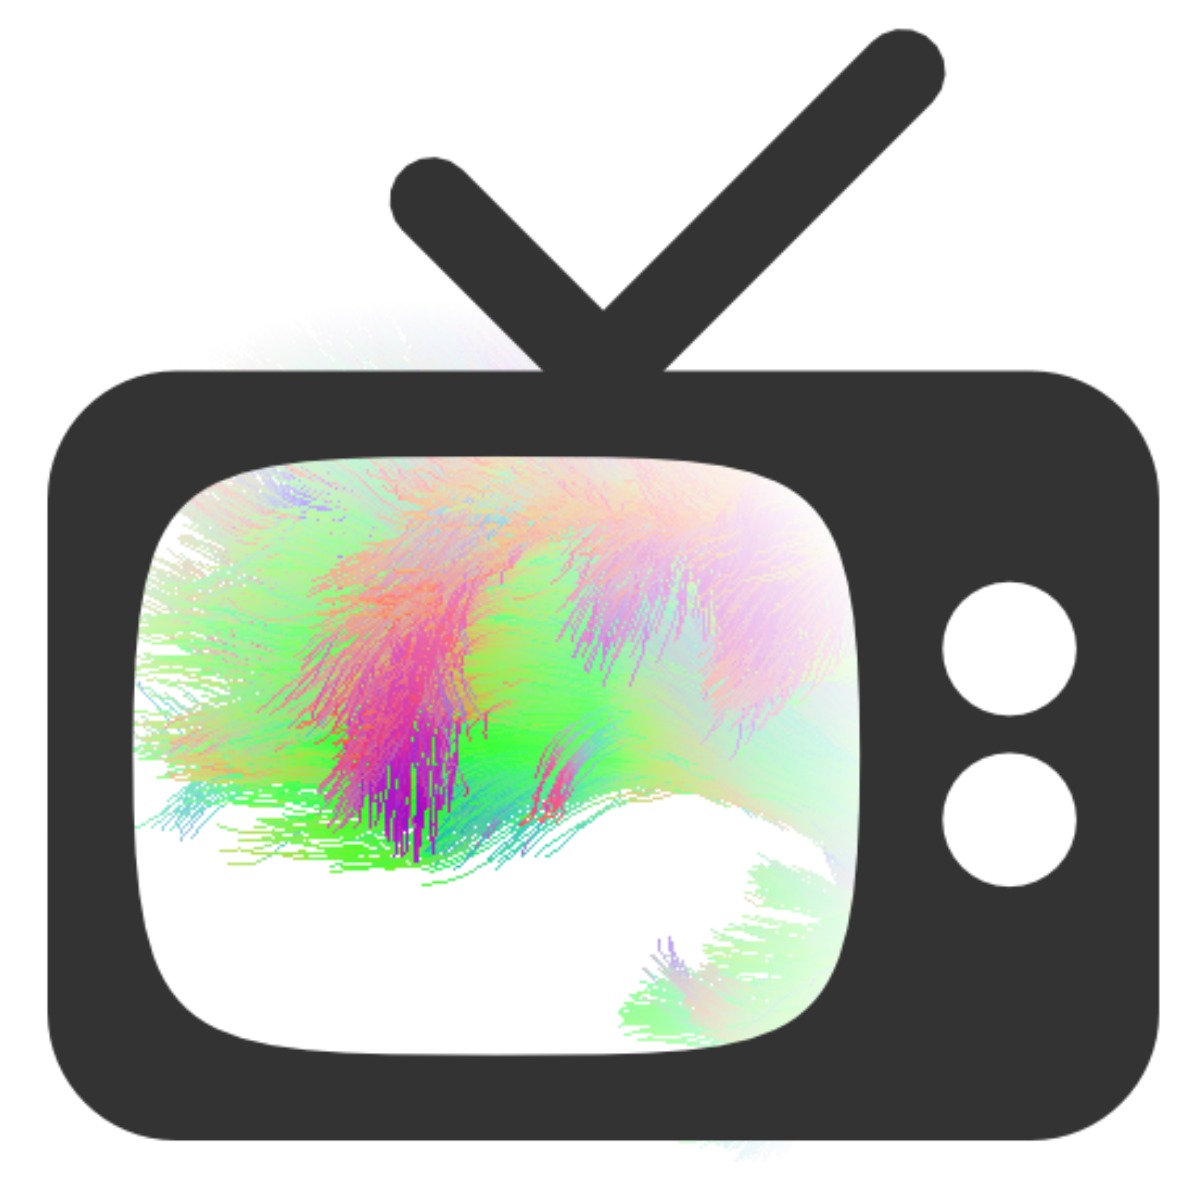
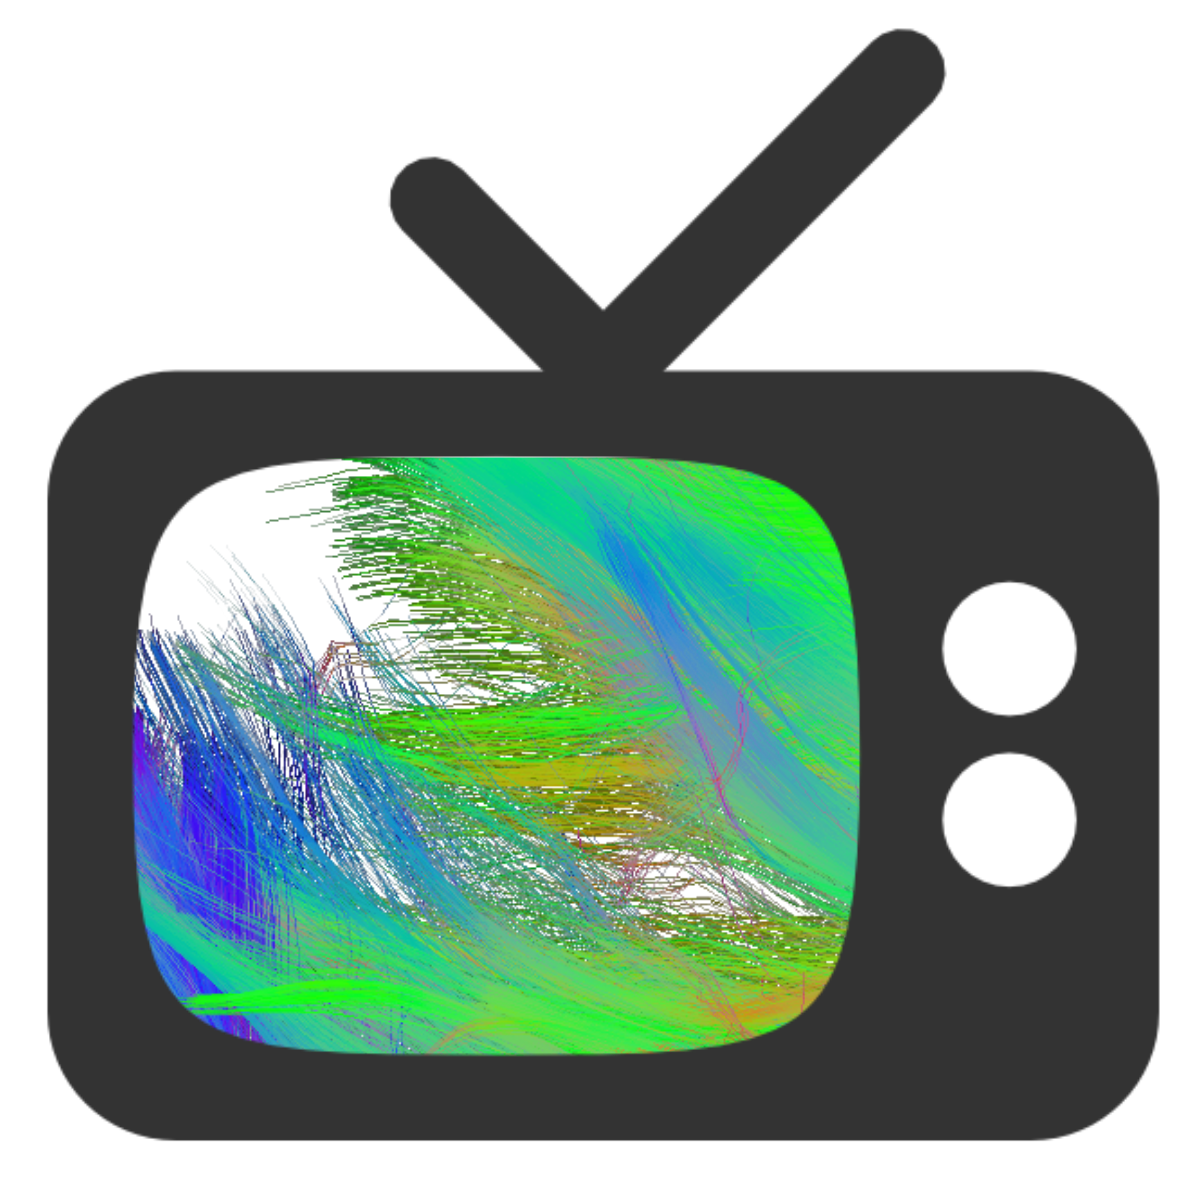
updated images on about

Changed region(s): [[0.0925, 0.37, 0.74, 0.8942]]

diff --git a/content/en/about.md b/content/en/about.md
@@ -3,7 +3,7 @@ title: About
 ---
 {{< brick_image >}}
 
-![](/uploads/tractograms/coronal_CST.png)
+![](/uploads/tractograms/CST_3D_overlay.png)
 
 
 
@@ -19,7 +19,7 @@ Since the mid-90's, tractography has had a rapid methodological and technologica
 <h3 id="anchor1"></h3>
 {{< brick_image2 >}}
 
-![](/uploads/tractograms/panya_schilling_fig.png)
+![](/uploads/tractograms/PLI_HIST.png)
 
 
 
